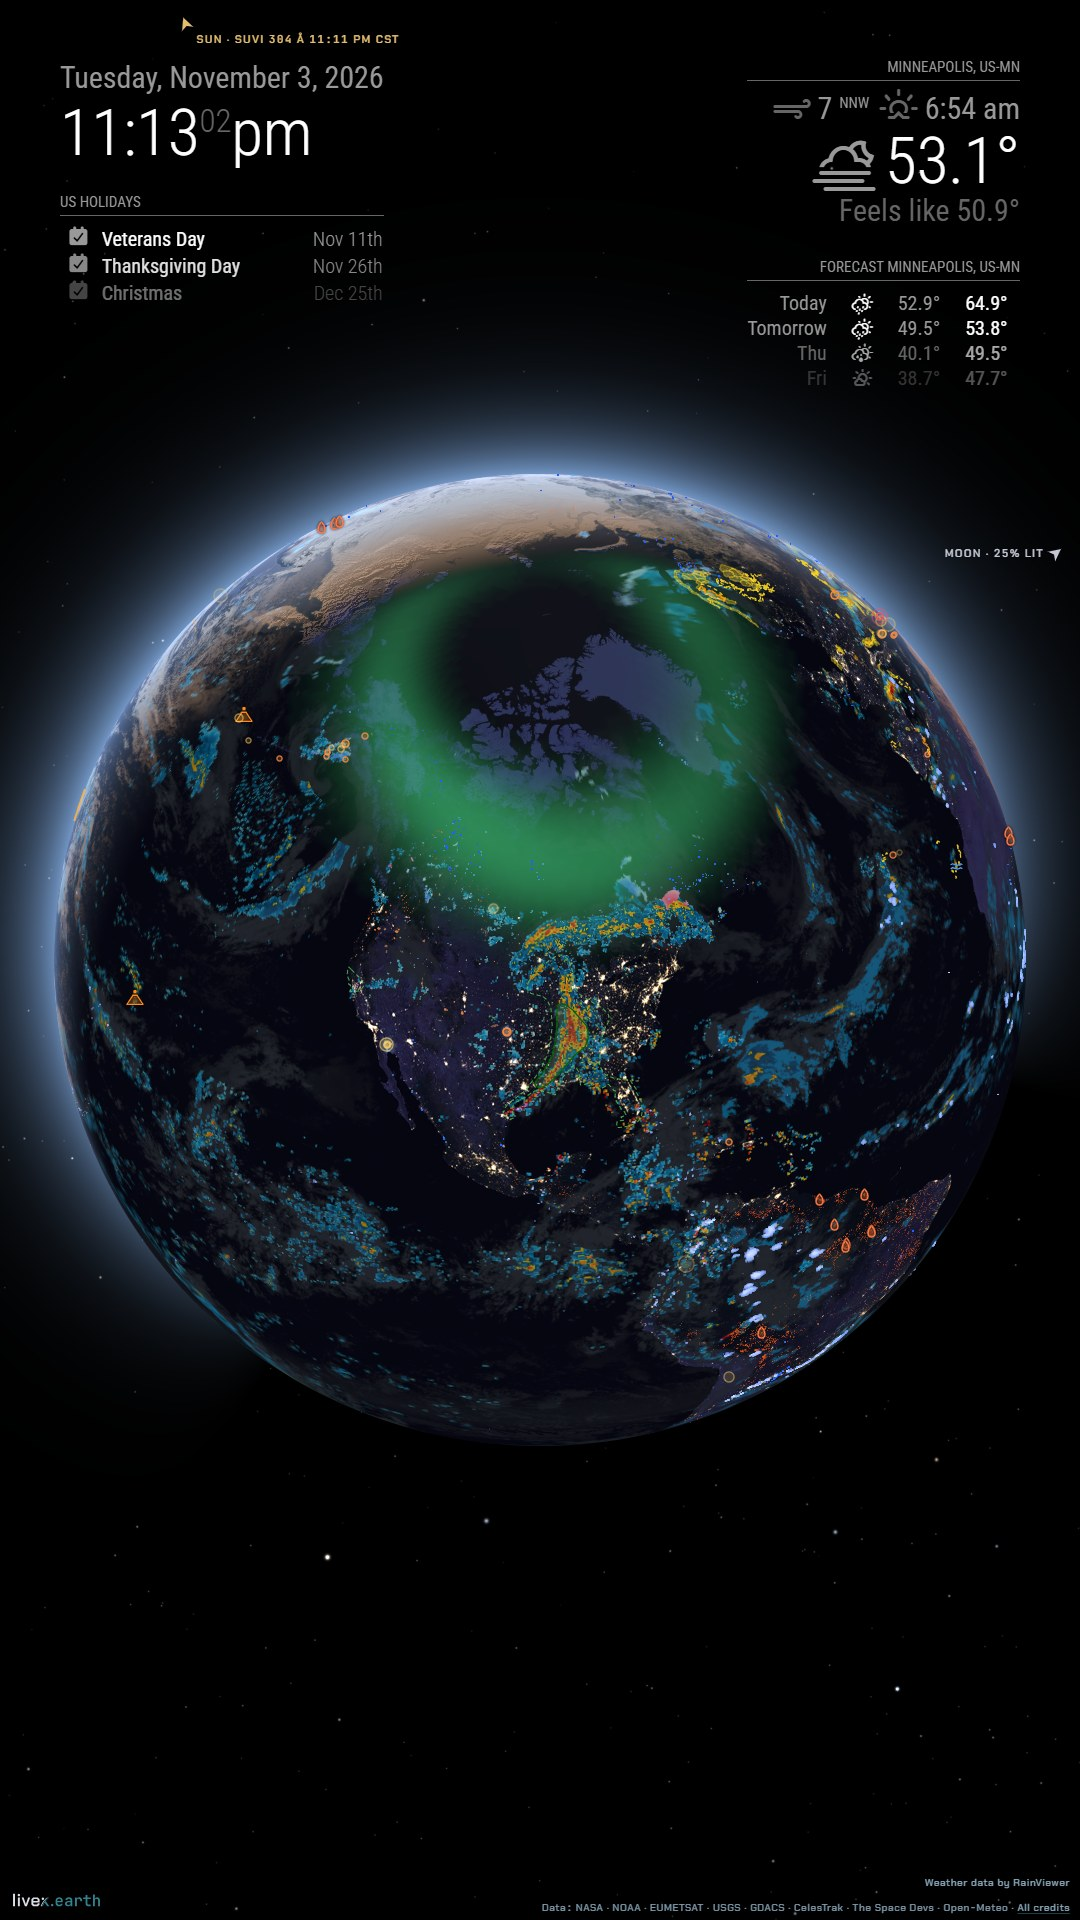
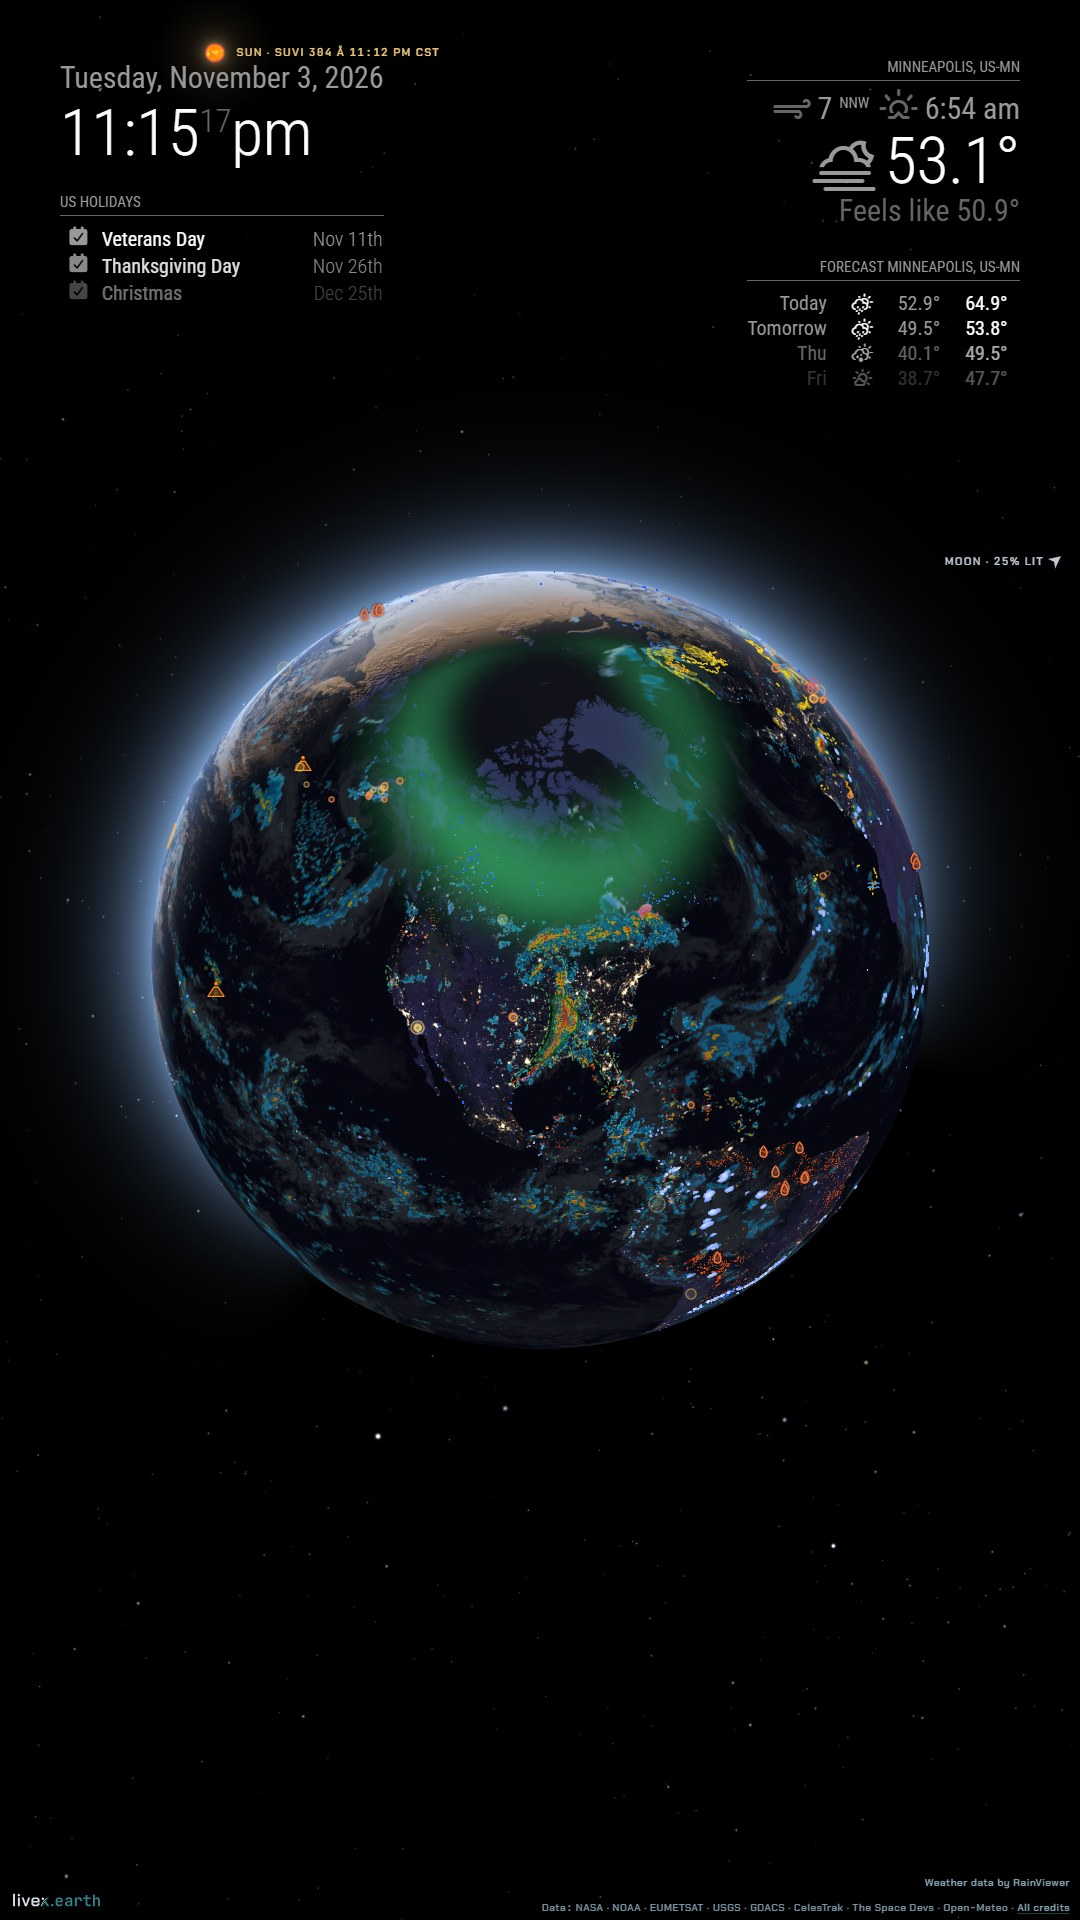
docs: the picture's globe is zoomed out, more of space around it on the mirror

Changed region(s): [[0.0, 0.1875, 1.0, 0.75], [0.1833, 0.0, 0.3667, 0.0625], [0.1528, 0.0625, 0.1833, 0.0938]]

diff --git a/dev/mm/config.js b/dev/mm/config.js
@@ -56,6 +56,7 @@ let config = {
       config: {
         width: '100vw',
         height: '100vh',
+        mag: 0.8,
         lat: 44.98,
         lon: -93.27,
       },

diff --git a/README.md b/README.md
@@ -26,6 +26,7 @@ with the clock and the other modules over the globe, as in the picture:
   config: {
     width: '100vw',
     height: '100vh',
+    mag: 0.8,
     lat: 44.98,
     lon: -93.27,
   },
